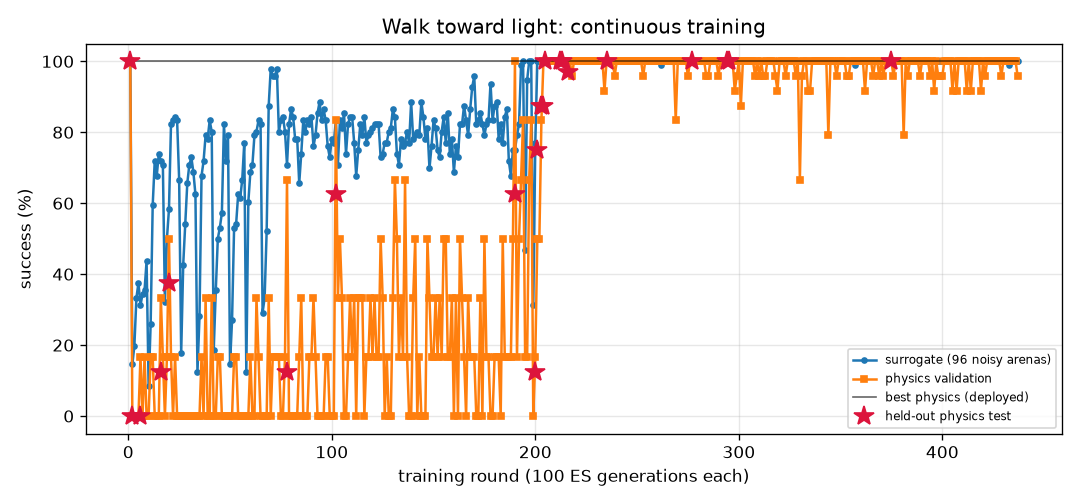
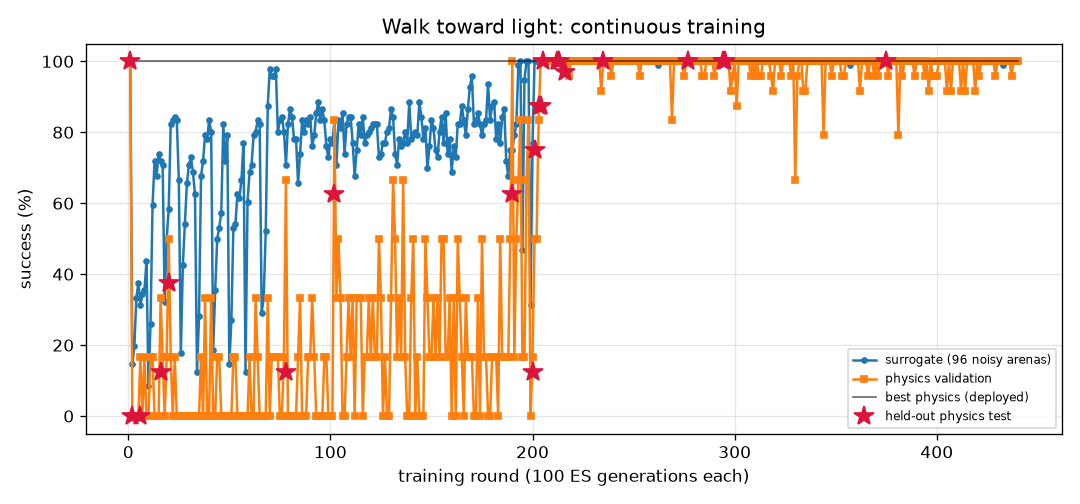
FlyLab: continuous training progress
- walk_forward: optimal, physics val 100% of 24, round 300
- turn: optimal, physics val 100% of 24, round 890
- goto: optimal, physics val 100% of 24, round 245
- odor_seek: optimal, physics val 100% of 24, round 201
- odor_avoid: optimal, physics val 100% of 24, round 804
- light_seek: optimal, physics val 100% of 24, round 440
- light_avoid: optimal, physics val 100% of 24, round 534

diff --git a/projects/09_flylab/training/light_avoid/REPORT.md b/projects/09_flylab/training/light_avoid/REPORT.md
@@ -1,14 +1,14 @@
 # Hide from light (`light_avoid`) — training report
 
-*Auto-generated by `train_brains.py`, last updated 2026-11-06T19:14:13.*
+*Auto-generated by `train_brains.py`, last updated 2026-11-06T19:57:05.*
 
 ![curve](curve.png)
 
 | | |
 |---|---|
-| rounds | 529 |
-| ES generations | 52900 |
-| physics runs | 12968 |
+| rounds | 534 |
+| ES generations | 53400 |
+| physics runs | 13088 |
 | status | **optimal** |
 | best brain | round 159: physics validation **100%** on 24 arenas, surrogate 100% |
 | held-out physics test | **100%** on 32 unseen arenas (95% CI 89%-100%) (errors: [14.4, 56.1, 58.0, 57.9, 57.5, 14.0, 14.4, 56.6, 56.8, 13.3, 14.1, 56.6, 57.6, 13.1, 57.3, 55.9, 57.2, 55.0, 55.2, 53.9, 55.2, 12.4, 53.8, 53.7, 14.1, 13.7, 55.0, 57.8, 56.2, 13.1, 52.8, 56.5]) |
@@ -17,11 +17,6 @@ Physics error per arena: mm gained away from source (> 6 without first approachi
 
 | round | level | gens | sigma | surrogate | physics val | val errors | test | note |
 |---:|---:|---:|---:|---:|---:|---|---:|---|
-| 490 | 3 | 49000 | 0.024 | 100% | 100% | [51.3, 53.6, 53.3, 53.1, 55.1, 52.6, 51.6, 14.5, 47.7, 13.3, 52.4, 54.9, 14.4, 53.3, 53.3, 52.5, 14.2, 55.0, 53.1, 14.4, 51.6, 53.0, 51.4, 54.7] |  |  |
-| 491 | 3 | 49100 | 0.024 | 100% | 100% | [37.8, 34.0, 34.4, 35.4, 37.7, 33.9, 32.7, 14.5, 33.9, 13.5, 36.2, 39.4, 14.4, 38.7, 34.6, 37.5, 14.2, 37.7, 36.5, 14.4, 34.8, 35.8, 32.5, 37.0] |  | restart from best |
-| 492 | 3 | 49200 | 0.024 | 100% | 100% | [43.0, 44.2, 43.8, 44.3, 45.6, 44.1, 41.9, 14.5, 43.1, 13.2, 44.1, 44.1, 14.4, 46.2, 43.9, 45.1, 14.2, 46.6, 44.5, 14.4, 43.8, 46.0, 41.5, 45.6] |  |  |
-| 493 | 3 | 49300 | 0.024 | 97% | 100% | [35.5, 38.8, 38.9, 35.8, 41.2, 38.7, 35.2, 14.5, 38.6, 12.9, 41.2, 42.2, 14.4, 40.9, 38.4, 7.2, 14.2, 40.3, 39.2, 14.4, 8.7, 40.3, 35.2, 42.4] |  |  |
-| 494 | 3 | 49400 | 0.026 | 97% | 100% | [51.7, 59.1, 58.8, 55.0, 58.7, 55.2, 57.7, 14.5, 12.4, 13.4, 57.1, 58.5, 14.4, 57.0, 59.0, 8.9, 14.2, 59.2, 59.5, 14.4, 8.9, 56.7, 57.5, 57.9] |  |  |
 | 495 | 3 | 49500 | 0.026 | 93% | 100% | [6.3, 49.3, 48.5, 7.1, 52.4, 8.2, 46.8, 14.5, 40.7, 13.4, 52.8, 52.0, 14.4, 51.9, 48.8, 9.0, 14.2, 51.6, 49.9, 14.4, 8.7, 52.1, 46.9, 52.2] |  | restart from best |
 | 496 | 3 | 49600 | 0.024 | 100% | 100% | [50.8, 53.2, 53.1, 50.2, 49.6, 50.4, 52.8, 14.5, 47.4, 13.5, 51.9, 49.2, 14.4, 48.3, 53.2, 50.6, 14.2, 50.6, 52.6, 14.4, 49.8, 52.0, 52.8, 48.0] |  |  |
 | 497 | 3 | 49700 | 0.024 | 100% | 100% | [49.7, 49.4, 49.2, 48.0, 52.0, 48.0, 46.6, 14.5, 49.4, 13.1, 51.4, 51.8, 14.4, 51.1, 49.3, 49.6, 14.2, 52.2, 50.0, 14.4, 48.0, 51.3, 47.1, 51.9] |  |  |
@@ -57,3 +52,8 @@ Physics error per arena: mm gained away from source (> 6 without first approachi
 | 527 | 3 | 52700 | 0.025 | 98% | 96% | [43.3, 44.1, 43.7, 44.0, 47.4, 43.4, 41.6, 14.5, 13.0, 13.4, 10.2, 47.4, 14.4, 4.1, 43.7, 43.1, 14.2, 47.1, 44.7, 14.4, 45.0, 11.2, 42.3, 47.1] |  | restart from best |
 | 528 | 3 | 52800 | 0.024 | 100% | 100% | [48.8, 50.8, 51.0, 48.8, 46.8, 48.2, 50.9, 14.5, 45.4, 13.3, 49.8, 46.7, 14.4, 45.4, 50.9, 48.5, 14.2, 47.9, 50.7, 14.4, 49.0, 47.9, 50.5, 45.7] |  |  |
 | 529 | 3 | 52900 | 0.024 | 100% | 100% | [54.4, 55.5, 55.2, 53.9, 55.2, 51.8, 53.8, 14.5, 38.3, 13.3, 54.5, 55.0, 14.4, 54.1, 55.4, 52.8, 14.2, 55.6, 55.8, 14.4, 53.7, 54.5, 53.7, 54.5] |  |  |
+| 530 | 3 | 53000 | 0.024 | 97% | 100% | [39.7, 40.8, 41.0, 39.2, 36.6, 39.3, 40.9, 14.5, 13.0, 13.4, 10.1, 36.1, 14.4, 28.3, 41.1, 40.1, 14.2, 37.4, 41.0, 14.4, 40.2, 11.2, 40.3, 35.3] |  |  |
+| 531 | 3 | 53100 | 0.026 | 98% | 96% | [46.6, 47.2, 47.4, 47.0, 43.6, 46.7, 47.2, 14.5, 13.0, 13.4, 10.2, 43.2, 14.4, 8.0, 47.4, 45.2, 14.2, 44.6, 47.4, 14.4, 44.4, 11.3, 46.8, 42.2] |  | restart from best |
+| 532 | 3 | 53200 | 0.024 | 100% | 100% | [38.4, 40.7, 37.3, 40.4, 43.3, 40.1, 34.7, 14.5, 39.4, 13.3, 42.5, 41.5, 14.4, 40.6, 38.1, 41.5, 14.2, 42.5, 39.9, 14.4, 38.9, 41.8, 38.0, 41.2] |  |  |
+| 533 | 3 | 53300 | 0.024 | 100% | 100% | [42.8, 42.4, 42.1, 43.6, 46.9, 45.2, 41.6, 14.5, 43.8, 13.1, 45.8, 45.5, 14.4, 45.8, 42.5, 42.9, 14.2, 45.1, 44.8, 14.4, 42.3, 44.5, 40.3, 46.8] |  |  |
+| 534 | 3 | 53400 | 0.024 | 100% | 100% | [43.4, 44.9, 42.4, 44.3, 45.9, 42.0, 42.2, 14.5, 46.0, 13.0, 46.6, 46.8, 14.4, 47.3, 42.4, 43.7, 14.2, 47.3, 45.3, 14.4, 43.0, 45.9, 41.1, 46.5] |  |  |

diff --git a/projects/09_flylab/training/light_seek/REPORT.md b/projects/09_flylab/training/light_seek/REPORT.md
@@ -1,14 +1,14 @@
 # Walk toward light (`light_seek`) — training report
 
-*Auto-generated by `train_brains.py`, last updated 2026-11-05T21:39:07.*
+*Auto-generated by `train_brains.py`, last updated 2026-11-06T19:59:01.*
 
 ![curve](curve.png)
 
 | | |
 |---|---|
-| rounds | 437 |
-| ES generations | 43700 |
-| physics runs | 7368 |
+| rounds | 440 |
+| ES generations | 44000 |
+| physics runs | 7440 |
 | status | **optimal** |
 | best brain | round 375: physics validation **100%** on 24 arenas, surrogate 100% |
 | held-out physics test | **100%** on 32 unseen arenas (95% CI 89%-100%) (errors: [0.57, 0.54, 0.53, 0.57, 0.55, 0.56, 0.59, 0.56, 0.53, 0.56, 0.71, 0.56, 0.55, 0.54, 0.53, 0.54, 0.54, 0.55, 0.52, 0.65, 0.64, 0.7, 0.58, 0.57, 0.6, 0.62, 0.55, 0.88, 0.54, 0.52, 0.62, 0.57]) |
@@ -17,9 +17,6 @@ Physics error per arena: mm from target at the end (< 1.5 and standing still = s
 
 | round | level | gens | sigma | surrogate | physics val | val errors | test | note |
 |---:|---:|---:|---:|---:|---:|---|---:|---|
-| 398 | 3 | 39800 | 0.024 | 100% | 96% | [0.61, 0.55, 0.76, 0.58, 0.55, 0.57, 0.54, 0.55, 0.67, 0.56, 0.71, 0.56, 0.68, 1.94, 0.77, 0.56, 0.55, 0.73, 0.56, 0.74, 0.74, 0.54, 0.85, 1.3] |  |  |
-| 399 | 3 | 39900 | 0.024 | 100% | 96% | [0.68, 0.5, 0.61, 0.59, 0.5, 0.58, 0.59, 0.5, 0.53, 0.52, 0.5, 0.5, 0.52, 0.49, 0.68, 0.56, 0.55, 0.49, 0.5, 1.43, 1.26, 0.5, 0.55, 0.56] |  | restart from best |
-| 400 | 3 | 40000 | 0.024 | 100% | 96% | [0.55, 0.54, 0.55, 0.56, 0.53, 0.57, 0.59, 0.58, 1.53, 0.52, 0.54, 0.54, 0.52, 0.59, 0.92, 0.48, 0.52, 0.57, 0.62, 0.58, 0.52, 0.55, 0.66, 0.66] |  |  |
 | 401 | 3 | 40100 | 0.024 | 100% | 100% | [0.73, 0.63, 0.65, 0.64, 0.74, 0.74, 0.62, 0.68, 0.66, 0.63, 0.67, 0.6, 0.73, 0.71, 0.82, 0.64, 0.67, 0.75, 0.64, 0.71, 0.7, 0.55, 0.69, 0.81] |  |  |
 | 402 | 3 | 40200 | 0.024 | 100% | 100% | [0.54, 0.56, 0.62, 0.57, 0.47, 0.58, 0.54, 0.5, 1.02, 0.55, 0.57, 0.47, 0.52, 0.53, 0.63, 0.5, 0.5, 0.49, 0.54, 0.71, 0.51, 0.51, 0.55, 0.47] |  |  |
 | 403 | 3 | 40300 | 0.024 | 100% | 100% | [0.51, 0.5, 0.5, 1.0, 0.55, 0.54, 0.46, 0.65, 1.01, 0.63, 0.58, 0.63, 0.52, 0.76, 0.6, 0.45, 0.49, 0.58, 0.62, 0.5, 1.08, 0.99, 0.51, 0.47] |  | restart from best |
@@ -57,3 +54,6 @@ Physics error per arena: mm from target at the end (< 1.5 and standing still = s
 | 435 | 3 | 43500 | 0.024 | 100% | 100% | [0.68, 1.03, 0.63, 0.74, 0.57, 0.51, 0.49, 0.59, 0.6, 0.56, 0.65, 0.55, 0.54, 0.74, 0.57, 1.17, 0.6, 0.65, 0.53, 0.67, 0.63, 0.56, 0.74, 0.68] |  | restart from best |
 | 436 | 3 | 43600 | 0.024 | 100% | 100% | [0.49, 0.48, 0.46, 0.5, 0.49, 0.49, 0.47, 0.48, 0.45, 0.47, 0.48, 0.47, 0.48, 0.48, 0.49, 0.48, 0.48, 0.48, 0.52, 0.5, 0.48, 0.49, 0.5, 0.48] |  |  |
 | 437 | 3 | 43700 | 0.024 | 100% | 96% | [1.6, 0.61, 0.54, 0.55, 0.56, 0.55, 0.56, 0.5, 0.55, 0.63, 0.52, 0.59, 0.6, 0.55, 0.56, 0.62, 0.56, 0.54, 0.63, 0.58, 0.7, 0.56, 0.58, 0.6] |  |  |
+| 438 | 3 | 43800 | 0.024 | 100% | 100% | [0.57, 0.55, 0.61, 0.62, 0.6, 0.58, 0.59, 0.59, 0.66, 0.69, 0.72, 0.55, 0.64, 0.59, 0.64, 0.58, 0.55, 1.06, 0.54, 0.6, 0.62, 0.64, 0.58, 0.65] |  |  |
+| 439 | 3 | 43900 | 0.024 | 100% | 100% | [0.57, 0.5, 0.71, 0.66, 0.54, 1.13, 0.49, 0.48, 0.94, 0.61, 0.49, 0.49, 0.49, 0.51, 0.52, 0.47, 0.51, 0.55, 0.66, 0.47, 0.6, 0.49, 0.53, 0.52] |  | restart from best |
+| 440 | 3 | 44000 | 0.024 | 100% | 100% | [0.63, 0.71, 0.7, 0.61, 0.62, 0.59, 0.62, 0.56, 1.31, 0.64, 0.74, 0.73, 0.72, 0.57, 0.73, 0.61, 0.64, 0.78, 0.57, 0.62, 0.75, 0.64, 0.77, 0.74] |  |  |

diff --git a/projects/09_flylab/training/TRAINING.md b/projects/09_flylab/training/TRAINING.md
@@ -1,6 +1,6 @@
 # FlyLab brains — continuous training log
 
-*Auto-generated by `train_brains.py`, last updated 2026-11-06T19:14:13.*
+*Auto-generated by `train_brains.py`, last updated 2026-11-06T19:59:01.*
 
 Every skill has its own brain and its own training process: surrogate ES rounds, physics validation in MuJoCo, keep-the-best selection, and a held-out physics test that is never used for selection. See each skill's report for its full round-by-round history. Mastery is progressive: passing a level (100% physics validation, >=95% surrogate) doubles the validation and test arena sets; a brain is **optimal** once it holds up at level 3 (>=95% of 24 validation arenas) AND scores >=90% on the 32 held-out test arenas. Test columns show 95% Wilson confidence intervals.
 
@@ -11,5 +11,5 @@ Every skill has its own brain and its own training process: surrogate ES rounds,
 | [Go to a location](goto/REPORT.md) | 245 | 24500 | 5830 | 100% | 100% of 24 | 100% of 32 (CI 89-100%) | **optimal** |
 | [Find food by smell](odor_seek/REPORT.md) | 201 | 20100 | 4254 | 100% | 100% of 24 | 100% of 32 (CI 89-100%) | **optimal** |
 | [Escape a bad smell](odor_avoid/REPORT.md) | 804 | 80400 | 16602 | 97% | 100% of 24 | 97% of 32 (CI 84-99%) | **optimal** |
-| [Walk toward light](light_seek/REPORT.md) | 437 | 43700 | 7368 | 100% | 100% of 24 | 100% of 32 (CI 89-100%) | **optimal** |
-| [Hide from light](light_avoid/REPORT.md) | 529 | 52900 | 12968 | 100% | 100% of 24 | 100% of 32 (CI 89-100%) | **optimal** |
+| [Walk toward light](light_seek/REPORT.md) | 440 | 44000 | 7440 | 100% | 100% of 24 | 100% of 32 (CI 89-100%) | **optimal** |
+| [Hide from light](light_avoid/REPORT.md) | 534 | 53400 | 13088 | 100% | 100% of 24 | 100% of 32 (CI 89-100%) | **optimal** |
